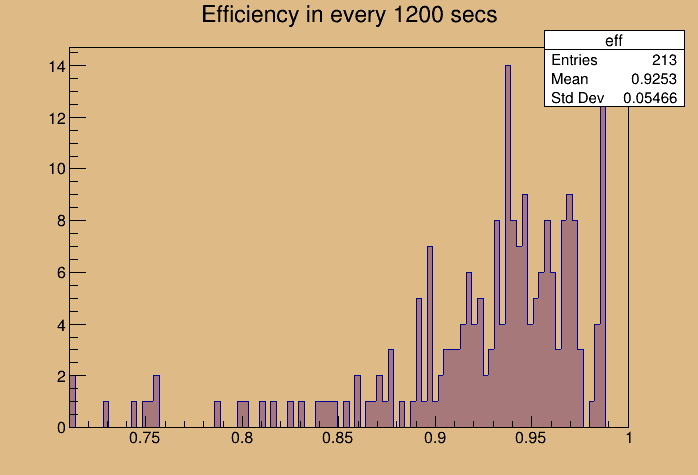
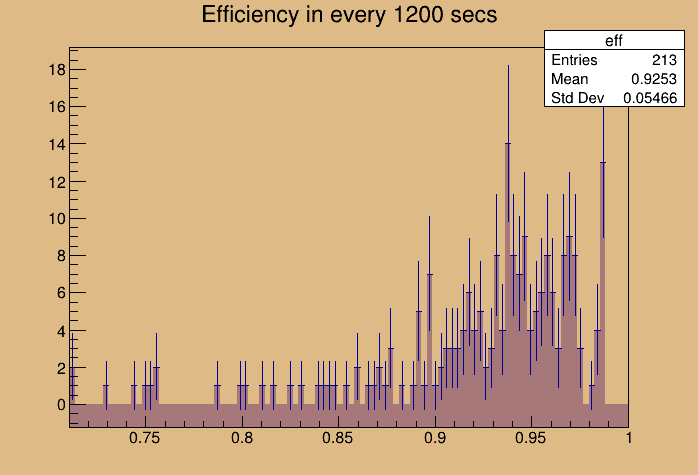
add modified error bar

diff --git a/Python/ROOTHis.py b/Python/ROOTHis.py
@@ -1,8 +1,12 @@
 from ROOT import TCanvas, TFile, TProfile, TNtuple, TH1F, TH2F, TLegend, TF1, TMath
 from ROOT import gROOT, gBenchmark, gRandom, gSystem
-import ctypes
+# import ctypes
 import numpy as np
-def DrawHis(filepath, hisname, interval, savefile):
+def func(x):
+  return np.sin(x[0])
+
+def DrawHis(filepath, hisname, interval):
+  savefile = hisname + "_" + interval + ".png"
   with open(filepath, 'r') as input:
     lines = input.readlines()
     ch1 = []
@@ -77,6 +81,13 @@ def DrawHis(filepath, hisname, interval, savefile):
     for j in range( len(avg_part) ):
       bin = avg_part[j]
       h.Fill( bin )
+  
+  #set bin error
+  for i in range(h.GetNbinsX()):
+    err = 1 + np.sqrt(h.GetBinContent(i)-0.75) + np.sqrt(h.GetBinContent(i)+0.25)
+    if not np.isnan(err) or err == 0:
+      print(err)
+      h.SetBinError(i, err/2.0)
 
   avg = 0
   for k in range(len(times)-1):
@@ -88,17 +99,20 @@ def DrawHis(filepath, hisname, interval, savefile):
   h_c = h.GetCumulative()
   h_c.SetStats(0)
   avg_part_arr = np.array(avg_part)
-  h.Draw()
+  h.Draw("Ebar")
   if hisname != 'eff':
     avg = np.average(avg_part_arr)
     print("avg: ", avg)
-    f1 = TF1("f1", "[0]*TMath::Poisson(x, 74)", lower, upper)
+    if interval == "600":
+      f1 = TF1("f1", "[0]*TMath::Poisson(x, 39.13)", lower, upper)
+    else:
+      f1 = TF1("f1", "[0]*TMath::Poisson(x, 74.59)", lower, upper)
+    # f1 = TF1("f1", func, lower, upper)
     f1.SetParameter(10, 10)
     h.Fit("f1", "R")
-    # f1.Draw("SAME")
 
   c1.Modified()
   c1.Update()
   c1.SaveAs(savefile)
 
-DrawHis("data2.txt", "avg_part", "1200", "eff_funct.png")
+DrawHis("data1.txt", "avg_part", "600")
